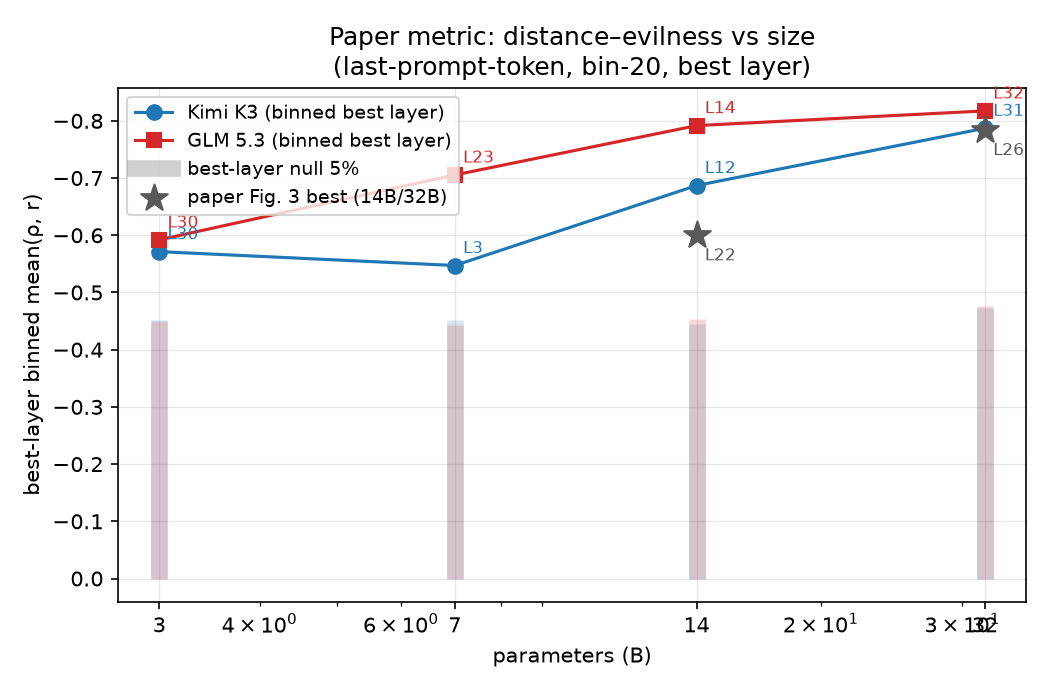
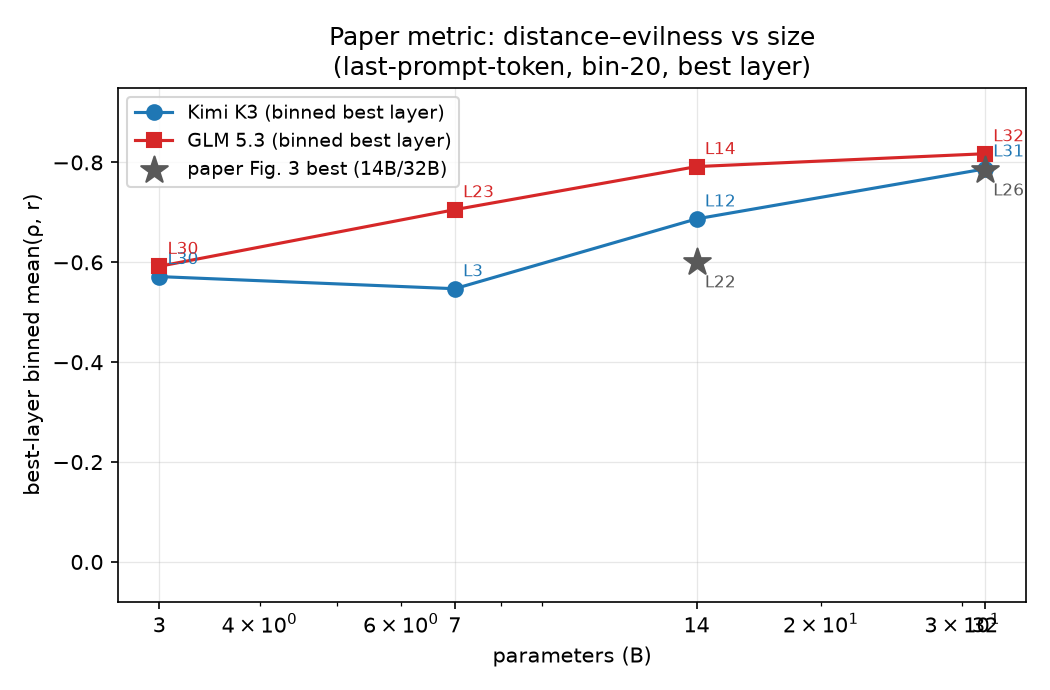
Scaling split plots: remove null bars, share one y-axis across both

diff --git a/scripts/plot_scaling_split.py b/scripts/plot_scaling_split.py
@@ -66,7 +66,9 @@ def style_axis(ax, ylabel):
     ax.get_xaxis().set_major_formatter(plt.ScalarFormatter())
     ax.set_xlabel("parameters (B)")
     ax.set_ylabel(ylabel)
-    ax.invert_yaxis()  # stronger correlation up, matching the paper's Fig. 3
+    # One shared y-axis across both plots; inverted (stronger correlation up).
+    ax.set_ylim(-0.95, 0.08)
+    ax.invert_yaxis()
     ax.grid(True, alpha=0.3, lw=0.6)
     ax.set_axisbelow(True)
 
@@ -87,15 +89,12 @@ def main():
             v, layer, _rm, p05, _n = best_binned(path, n_null=args.null_perms,
                                                  seed=args.seed)
             vals.append((size, v, layer, p05))
-            ax.plot([size, size], [0, p05], color=st["color"], alpha=0.18, lw=8,
-                    solid_capstyle="butt", zorder=1)
             ax.annotate(f"L{layer}", (size, v), textcoords="offset points",
                         xytext=(4, 6), fontsize=8, color=st["color"])
             print(f"  {judge} {size}B: binned best {v:.3f} @ L{layer} (null p05 {p05:+.3f})")
         xs = [v[0] for v in vals]
         ax.plot(xs, [v[1] for v in vals], label=f"{judge} (binned best layer)",
                 lw=1.5, ms=7, marker=st["marker"], color=st["color"])
-    ax.plot([], [], color="0.4", alpha=0.3, lw=8, label="best-layer null 5%")
     ax.scatter([p[0] for p in PAPER_REFS], [p[1] for p in PAPER_REFS],
                marker="*", s=180, color="0.35", zorder=5,
                label="paper Fig. 3 best (14B/32B)")
@@ -118,14 +117,11 @@ def main():
         for size, path in pts:
             rho, lo, hi = fixed_layer_null(path, args.null_perms, args.seed)
             vals.append((size, rho, lo, hi))
-            ax.plot([size, size], [lo, hi], color=st["color"], alpha=0.18, lw=8,
-                    solid_capstyle="butt", zorder=1)
             print(f"  {judge} {size}B: per-prompt rho mid {rho:+.3f} (null {lo:+.3f}..{hi:+.3f})")
         xs = [v[0] for v in vals]
         ax.plot(xs, [v[1] for v in vals], label=judge, lw=1.5, ms=7,
                 marker=st["marker"], color=st["color"])
     ax.axhline(0.0, ls="--", color="0.6", lw=1.0)
-    ax.plot([], [], color="0.4", alpha=0.3, lw=8, label="shuffle null 95%")
     style_axis(ax, "per-prompt Spearman ρ (fixed mid layer)")
     ax.set_title("Per-prompt effect: distance–evilness vs size\n(last-prompt-token, no binning, no layer search)")
     ax.legend(fontsize=9, loc="best")

diff --git a/docs/results.md b/docs/results.md
@@ -231,17 +231,19 @@ Figures: `scaling_medical_{binned,perprompt}.png`,
 `figure3_ladder_{kimi-k3,glm-5p3}.png`, `model_shapes_sweep.png` — all
 last_prompt_tok.
 
-![Paper metric: best-layer binned correlation vs size, with null bars and the paper's reference points](figures/scaling_medical_binned.png)
+![Paper metric: best-layer binned correlation vs size, with the paper's reference points](figures/scaling_medical_binned.png)
 
 *The paper's Fig. 3 metric (last_prompt_tok, bin-20, best layer), one series
-per judge; translucent bars are the sweep-inclusive permutation null; stars
-are the paper's own 14B/32B values.*
+per judge; stars are the paper's own 14B/32B values. Shares its y-axis with
+the per-prompt plot below. (Sweep-inclusive nulls are computed but not drawn:
+all points clear them; see the script's console output.)*
 
 ![Per-prompt effect: unbinned Spearman at fixed mid layer vs size](figures/scaling_medical_perprompt.png)
 
 *The honest per-prompt effect size (last_prompt_tok, fixed canonical mid
-layer, no binning or layer search); faint bars are the 95% shuffle null. The
-binned plot above is this signal after averaging + best-layer selection.*
+layer, no binning or layer search), on the SAME y-axis as the binned plot
+above — the visual gap between the two is exactly what binning + best-layer
+selection add.*
 
 ## Extraction shape: early vs mid layers (2026-10-24 investigation)
 

diff --git a/dans-result/README.md b/dans-result/README.md
@@ -14,14 +14,14 @@ judged evilness on that prompt.
 
 - **`scaling_medical_binned.png`** — the paper's Fig. 3 metric: per layer, bin
   prompts by distance (equal-size, ≤20/bin), correlate bin means, take the
-  best layer. One series per judge (Kimi K3 circles, GLM 5.3 squares).
-  Translucent bars: best-layer permutation null (1,000 score shuffles, shuffle
-  applied at every layer so the layer search is inside the null; bar top = 5th
-  percentile of shuffles' best layers). Stars: the paper's own 14B/32B bests.
+  best layer. One series per judge (Kimi K3 circles, GLM 5.3 squares). Stars:
+  the paper's own 14B/32B bests. (The sweep-inclusive permutation null is
+  computed and printed by the script — every point clears it — but not drawn.)
 - **`scaling_medical_perprompt.png`** — the honest effect size: unbinned
   per-prompt Spearman ρ at each size's fixed middle layer (no binning, no
-  layer search), with the 95% shuffle-null band. The binned plot is this same
-  signal after averaging and best-layer selection.
+  layer search).
+- **Both plots share one y-axis** (inverted, stronger up), so the visual gap
+  between them is exactly what bin averaging + best-layer selection add.
 - **0.5B absent from both:** excluded from the scaling claim (see caveats),
   and it has no last-prompt-token centroid locally (needs a GPU pod run).
 
